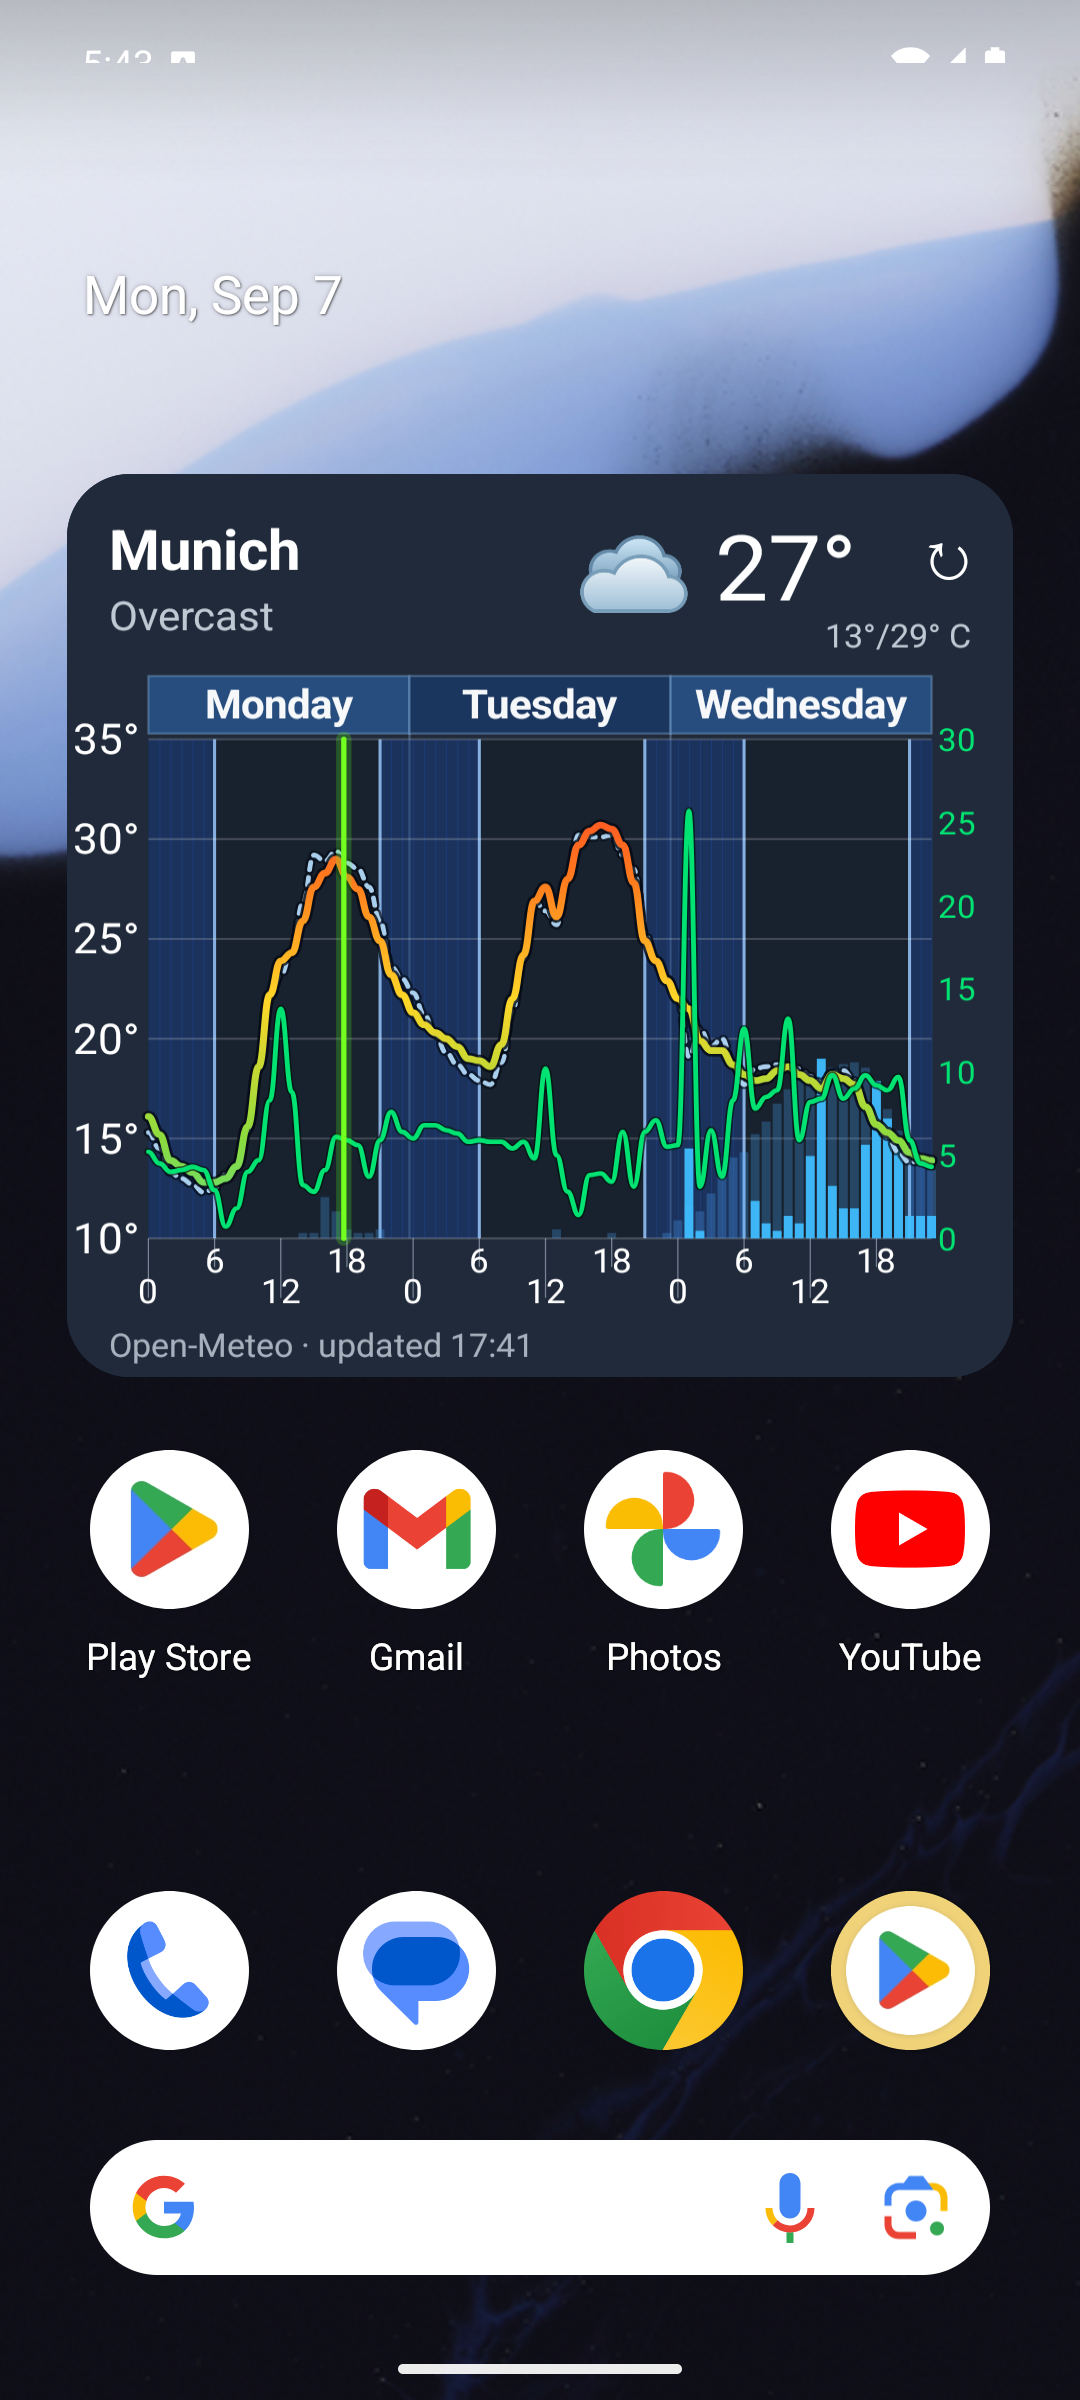
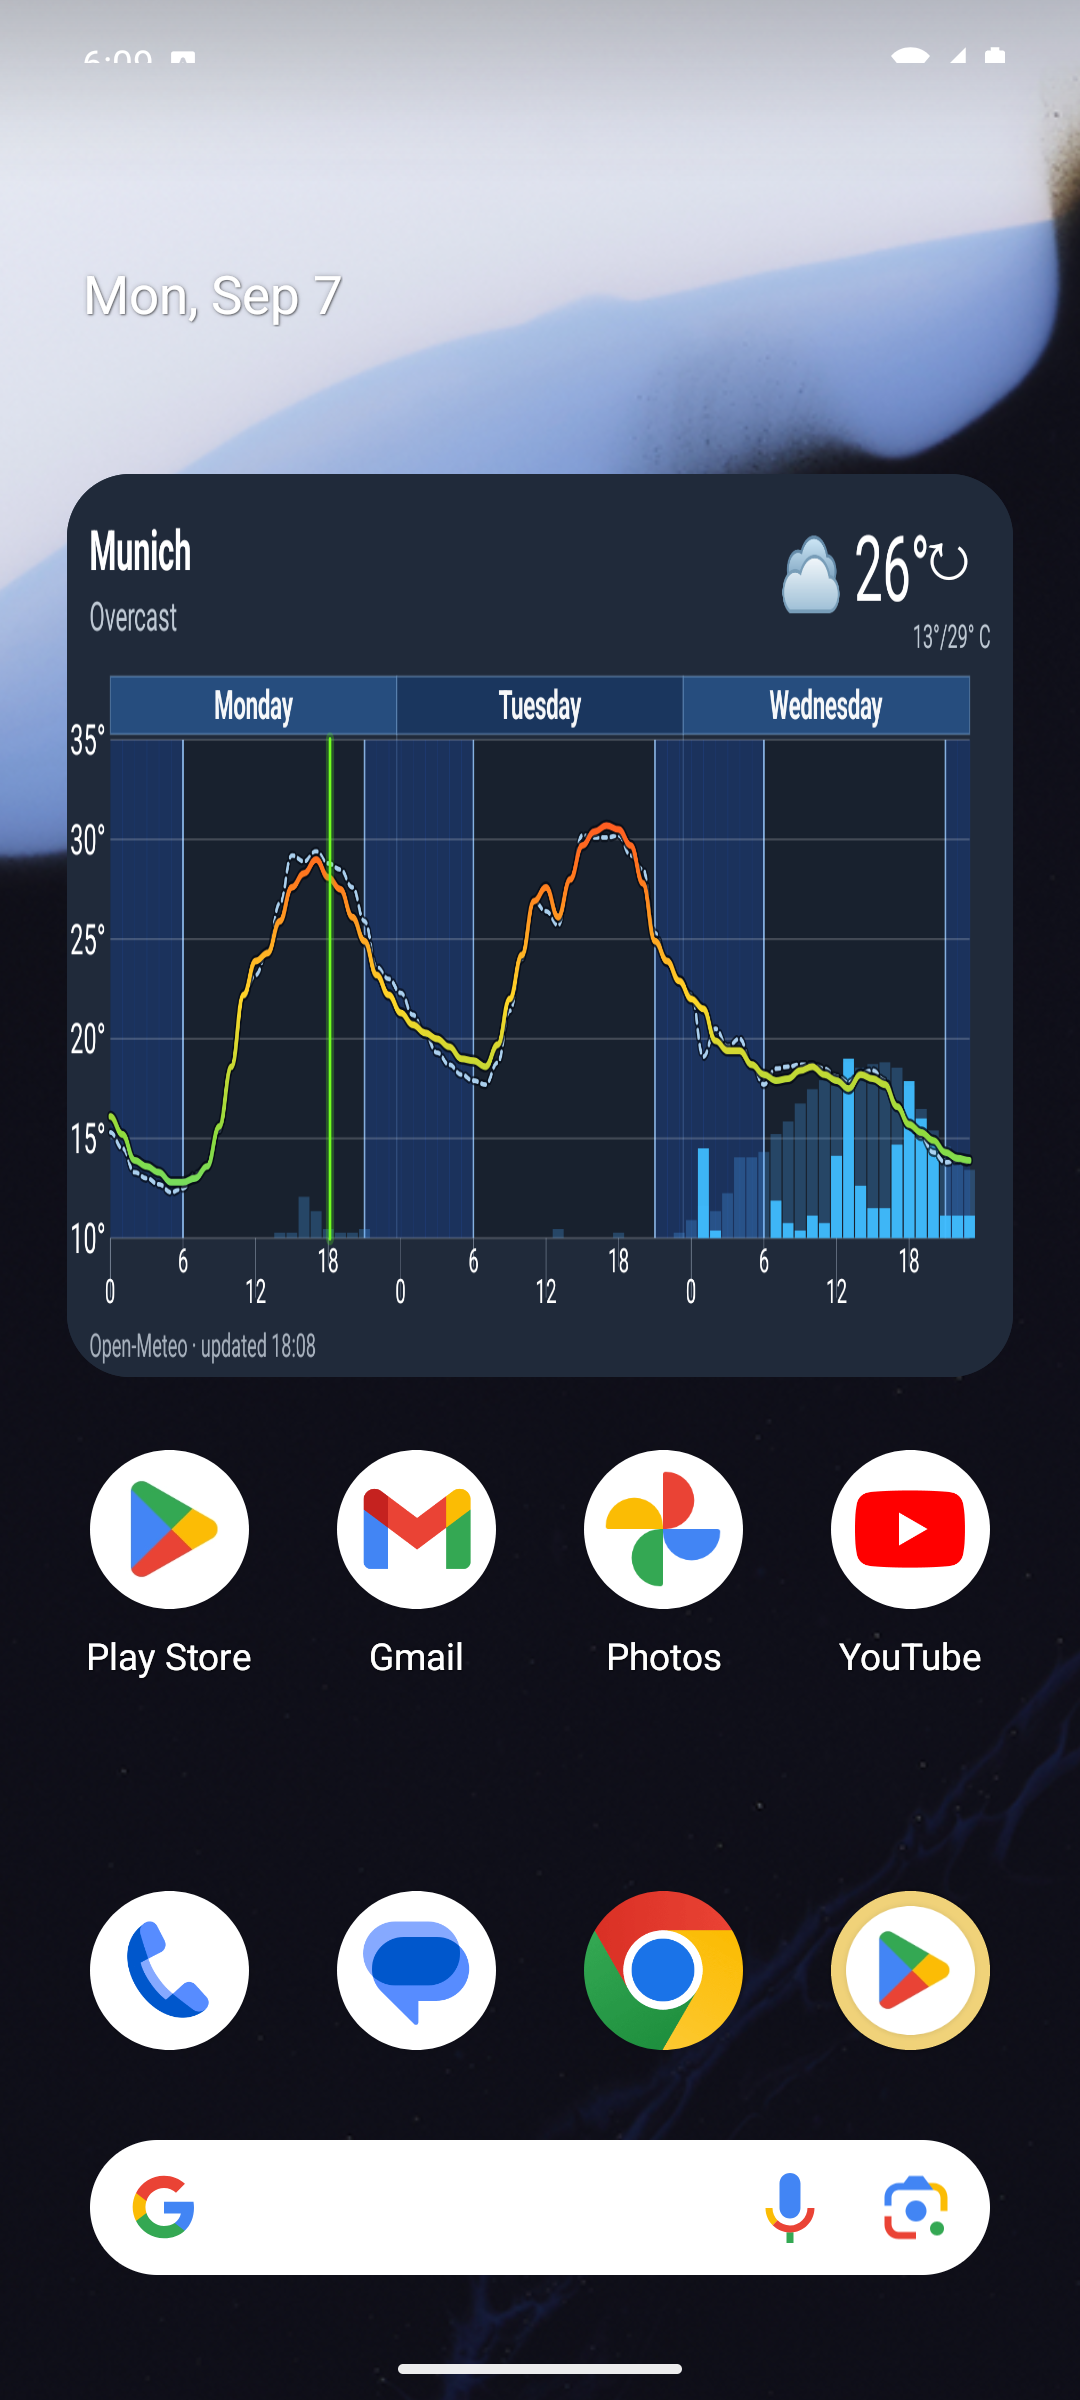
fix: bust cached widget charts when layers change
Give each Glance chart PNG a unique path so cloud/wind toggles
redraw immediately. Bump Android to 28 / 1.1.16.

diff --git a/android/app/src/main/kotlin/de/wean/wetterkurve/widget/WetterkurveWidgets.kt b/android/app/src/main/kotlin/de/wean/wetterkurve/widget/WetterkurveWidgets.kt
@@ -93,9 +93,9 @@ private fun snapshotFromPrefs(prefs: Preferences): WidgetSnapshot {
     )
 }
 
-private fun writeChartFile(context: Context, appWidgetId: Int, bitmap: Bitmap?): String? {
+private fun writeChartFile(context: Context, appWidgetId: Int, tick: Long, bitmap: Bitmap?): String? {
     if (bitmap == null) return null
-    val file = File(context.cacheDir, "glance-chart-$appWidgetId.png")
+    val file = File(context.cacheDir, "glance-chart-$appWidgetId-$tick.png")
     FileOutputStream(file).use { bitmap.compress(Bitmap.CompressFormat.PNG, 90, it) }
     return file.absolutePath
 }
@@ -125,7 +125,7 @@ object WetterkurveWidgets {
             } else {
                 snapshot(context)
             }
-            val chartPath = writeChartFile(context, appWidgetId, snapshot.chart)
+            val chartPath = writeChartFile(context, appWidgetId, tick, snapshot.chart)
             updateAppWidgetState(context, PreferencesGlanceStateDefinition, glanceId) { prefs ->
                 prefs.toMutablePreferences().apply {
                     this[TickKey] = tick
